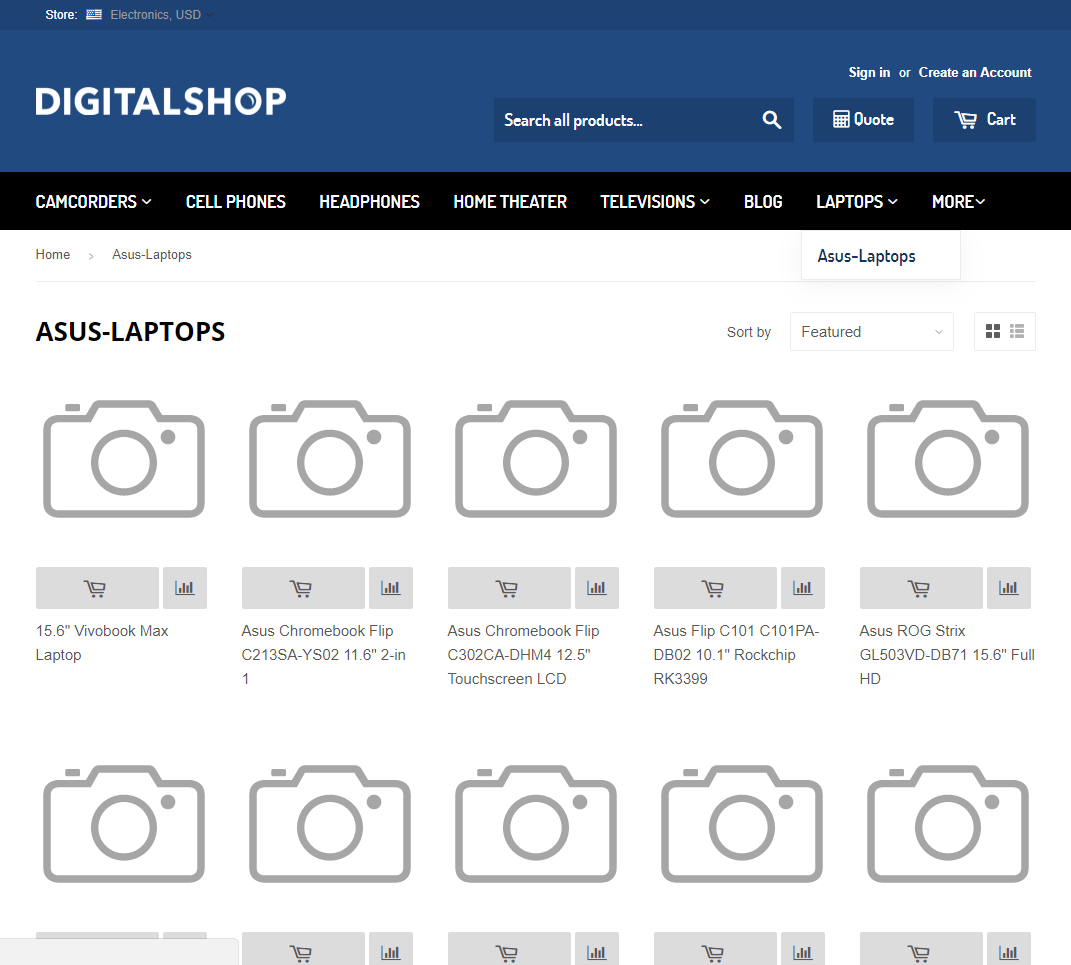
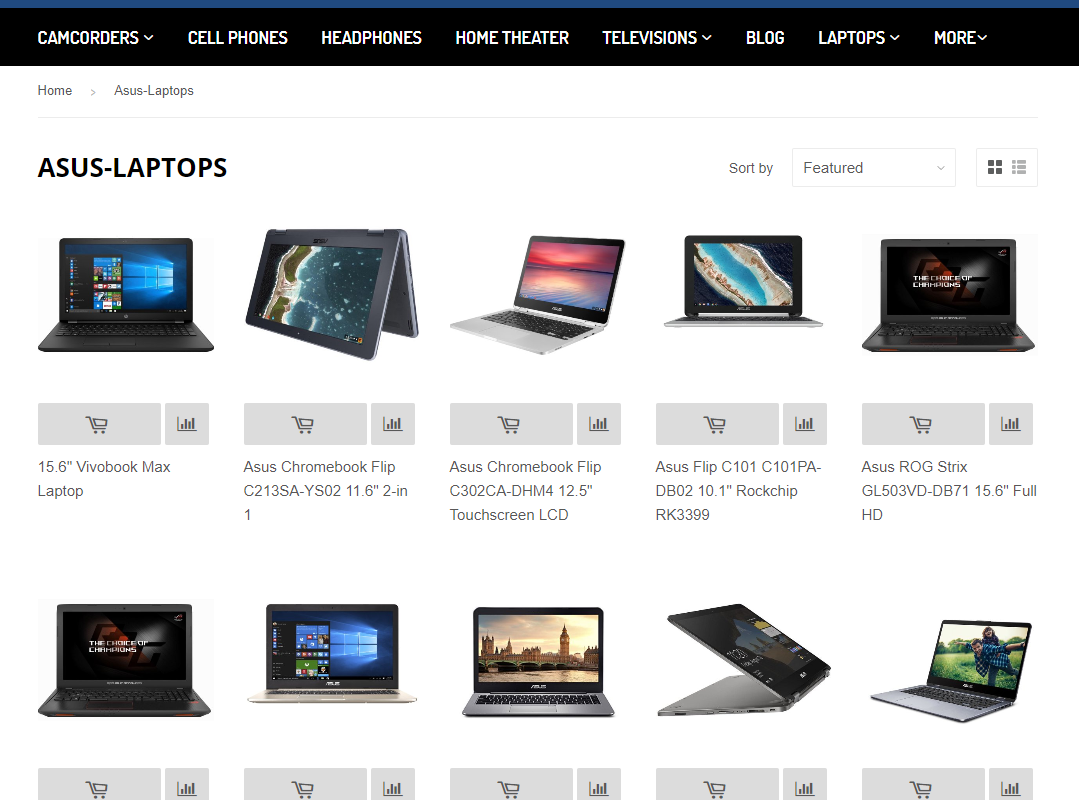
Added images of new products, zip of this images, instruction & screens for upload images and creating thumbnails

diff --git a/pages/docs/lessons/lesson2.md b/pages/docs/lessons/lesson2.md
@@ -11,13 +11,14 @@ Use this guide to import new products into Virto Commerce Platform(backend) cata
 
 ## Prerequisites
 
-* Download the <a href="https://github.com/VirtoCommerce/vc-content/tree/lesson2/Pages/docs/lessons/electronics-new-products-example.csv" target="_blank">electronics-new-products-example.csv</a> file with new products.
+* Download the <a href="https://github.com/VirtoCommerce/vc-content/tree/lesson2/pages/docs/lessons/electronics-new-products-example.csv" target="_blank">electronics-new-products-example.csv</a> file with new products.
+* Download the <a href="https://github.com/VirtoCommerce/vc-content/tree/lesson2/pages/docs/lessons/images-example.zip" **images-example.zip** file with 15 images of new products.
 * Word Excel or <a href="https://www.libreoffice.org/" target="_blank">LibreOffice(*free*)</a>.
 
 ## Create catalog data file in .csv format
 
 * To create file with products like downloaded **electronics-new-products-example.csv** you need to create new file in any of Word Excel or LibreOffice programm.
-* In Excel just select the product properties you need from the list and fill in the product properties columns as in our document.
+* In Excel just select the product properties you need from the list and fill in the product properties columns as in our document. Set to the PrimaryImage column pathes to your images in **Assets**.
 * In LibreOffice you need to create table with the number of columns equal to the number of properties of your products and fill it. For a delimiter, select a comma.
 * Save file in .csv format.
 
@@ -29,21 +30,35 @@ Use this guide to import new products into Virto Commerce Platform(backend) cata
 * There are 2 scenarios for adding new products: adding to a new catalog or to an existing one.
 
 ### Create new category and subcategory
+
 * To create new category in **Electronics Theme** click on **More > Catalog > Electronics** > click on **+Add** > choose the **Category** > add category name **Laptops** and code(optional), push on button **Create**.
 
 ![Create new category](../../assets/images/docs/new-category.png "Create new category")
 
 ![New category details](../../assets/images/docs/new-category-details.png "New category details")
 
-* Click on the **Laptops** in categories list. To create new subcategory, click on **+Add** > choose the **Category** > add category name **Asus-Laptops** and code(optional), push on button **Create**.
-* By click on **More > Catalog > Electronics > Laptops > Asus-Laptops** you will see all created categories.
+* Click on the **Laptops** in categories list. To create new subcategory, click on **+ Add** > choose the **Category** > add category name **Asus-Laptops** and code(optional), push on button **Create**.
+* By click on **More > Catalog > Electronics > Laptops > Asus-Laptops** you will see all created categories. If you want to get Asus-Laptops CategoryId for using it in .csv file - click on categories page menu, select **Id** by check box and copy Asus-Laptops Id value.
 
 ### Use an existing catalog and categories
+
 * Click on **More > Catalog**. Select the catalog and category names in which you want to add new products.
+
+## Upload images for new products
+
+* You need to add images for products: go to **More > Assets > catalog >** click on the **New folder** icon, type **ASUS** name, click button **Ok**.
+
+![New folder for images](../../assets/images/docs/assets-new-folder.png "New folder for images")
+
+![Upload new images](../../assets/images/docs/assets-upload-image.png "Upload new images")
+
+* Click on the **Upload** icon and select in File Explorer all downloaded example images from **images-example.zip**. Now you could see all images in the new **ASUS** catalog.
+
+![New images list](../../assets/images/docs/assets-new-products.png "New images list")
 
 ## Import and mapping your catalog data to Virto Commerce Platform(*backend*)
 
-* At the top of the **Asus-Laptops** category page click the **Import** icon > **VirtoCommerce CSV import** > select **Comma** in **Csv column delimiter** > click on image to upload **electronics-new-products-example.csv** file. Wait a minute...
+* At the top of the **Asus-Laptops** category page click on the **Import** icon > **VirtoCommerce CSV import** > select **Semicolon** in **Csv column delimiter** > click on image to upload **electronics-new-products-example.csv** file. Wait a minute... **Note** that importing new products from the file without specifying either the id category or the category path in it, defaults to the root directory - to the catalog.
 
 ![Сsv import](../../assets/images/docs/csv-import.png "Сsv import")
 
@@ -71,9 +86,24 @@ Use this guide to import new products into Virto Commerce Platform(backend) cata
 
 ![New subcategory link](../../assets/images/docs/new-subcategory-link.png "New subcategory link")
 
+## Creating thumbnails for new product images
+
+* You need to create thumbnails for new images. For this need to **only once** creating new task for thumbnails generation: go to **More > Thumbnails >** click on **+ Add** icon, enter Name - **catalog images**, Path to images - **/catalog**, click on penсil icon near **Thumbnail setting** and on **+ Add** icon.
+
+![New thumbnail task](../../assets/images/docs/new-thumbnail-task.png "New thumbnail task")
+
+* Create and save thumbnail option details: Name - **348x348**, Thumbnail file name suffix - **348x348**, Resize method - **FixedSize**, Width - **348**, Height - **348**, Anchor Position - **Center**. Similarly for 3 other resolutions: **216x216, 168x168, 64x64**. 
+* Put the cursor in the **Thumbnail settings** field, add all settings, save new thumbnails generation task.
+
+![New thumbnail options](../../assets/images/docs/new-subcategory-link.png "New thumbnail options")
+
+* Select **catalog images** task in task list by check box, click on **! Run** icon, push button **Regenerate** in pop-up window. Wait a minute... All done.
+
+![New thumbnails was generated](../../assets/images/docs/new-thumbnails-generated.png "New thumbnails was generated")
+
 ## Build search indexes and reset cache
 
-* You need to build search indexes for new categories and products - open Virto Commerce Platform(*backend*), go to **More > Search index >** select all document types via check boxes **>** click on icon **Build index**, in pop-up window push on button **Build**.
+* By default indexes building by system throughout 5 minutes. If you want to build search indexes for new categories and products immediately, open Virto Commerce Platform(*backend*), go to **More > Search index >** select all document types via check boxes **>** click on icon **Build index**, in pop-up window push on button **Build**.
 
 ![Build search indexes](../../assets/images/docs/build-search-indexes.png "Build search indexes")
 
@@ -95,30 +125,30 @@ Use this guide to import new products into Virto Commerce Platform(backend) cata
 | Property Name                                  | Data Type       | Example                                                                   |
 |------------------------------------------------|-----------------|---------------------------------------------------------------------------|
 | Name (required)                                | text            | Asus VivoBook W202NA-DH02 Rugged 11.6-inch Windows 10 Home Laptop         |
-| Id                                             | text            | 689dad074edd495897dd34d1846c4bfe                                          |
-| Sku                                            | text            | 123123hgf                                                                 |
+| Id                                             | text            |                                                                           |
+| Sku                                            | text            |                                                                           |
 | CategoryPath (required if CategoryId is empty) | text            | Laptops/Asus-Laptops                                                      |
-| CategoryId (required if CategoryPath is empty) | text            | 53e239451c844442a3b2fe9aa82d95c8                                          |
-| MainProductId                                  | text            | a82d95c853e239451c238442a3b2fe9a                                          |
+| CategoryId (required if CategoryPath is empty) | text            |                                                                           |
+| MainProductId                                  | text            |                                                                           |
 | PrimaryImage (image url in app)                | text            | http://localhost/admin/assets/catalog/PAHCVX870/1420483149000_1109406.jpg |
-| AltImage                                       | text            | panasonic-hc-vx870k-4k-ultra-hd-camcorder                                 |
-| SeoUrl                                         | text            | panasonic-hc-vx870k-4k-ultra-hd-camcorder                                 |
+| AltImage                                       | text            | asus-vivobook-w202na-dh02                                                 |
+| SeoUrl                                         | text            | asus-vivobook-w202na-dh02                                                 |
 | SeoTitle                                       | text            |                                                                           |
 | SeoDescription                                 | text            |                                                                           |
 | SeoLanguage                                    | text            | en-US                                                                     |
-| SeoStore (Id of Store)                         | text            | 844442a3b2fe9aa82d95c853e239451c                                          |
+| SeoStore (Id of Store)                         | text            |                                                                           |
 | Review                                         | number (0 or 1) | 1                                                                         |
-| ReviewType (Id of Review Type)                 | text            | 8a82d95c44442a3b2fe9a853e239451c                                          |
+| ReviewType                                     | text            | FullReview(or QuickReview)                                                |
 | IsActive                                       | number (0 or 1) | 1                                                                         |
 | IsBuyable                                      | number (0 or 1) | 1                                                                         |
 | TrackInventory                                 | number (0 or 1) | 1                                                                         |
-| PriceId                                        | text            | d95c448a82442a3b2fe9a853e239451c                                          |
+| PriceId                                        | text            |                                                                           |
 | SalePrice                                      | number          | 199.5                                                                     |
 | ListPrice (required)                           | number          | 199.5                                                                     |
 | Currency                                       | text            | USD                                                                       |
-| PriceListId                                    | text            | 8a82442a3b2fed95c449a853e239451c                                          |
+| PriceListId                                    | text            |                                                                           |
 | Quantity (required, 0 and more)                | number          | 25                                                                        |
-| ManufacturerPartNumber                         | text            | 8a82442a3b2fed95c449a853e239451c                                          |
+| ManufacturerPartNumber                         | text            | ASDJHG34GH-23                                                             |
 | Gtin                                           | text            |                                                                           |
 | MeasureUnit                                    | text            | mm                                                                        |
 | WeightUnit                                     | text            | gram                                                                      |
@@ -126,11 +156,11 @@ Use this guide to import new products into Virto Commerce Platform(backend) cata
 | Height                                         | number          | 125                                                                       |
 | Length                                         | number          | 125                                                                       |
 | Width                                          | number          | 125                                                                       |
-| TaxType                                        | text            | 582fed9c449a853e239a82442a3b451c                                          |
-| ProductType                                    | text            | 89a853e239a8242fed95c4442a3b451c                                          |
-| ShippingType                                   | text            | 95c449a853e239a82442a3b4582fed1c                                          |
+| TaxType                                        | text            |                                                                           |
+| ProductType                                    | text            | Physical(or Digital)                                                      |
+| ShippingType                                   | text            |                                                                           |
 | Vendor                                         | text            | Asus                                                                      |
-| DownloadType (Id of Download Type)             | text            | 95c449a853e239a82442a3b4582fed1c                                          |
+| DownloadType                                   | text            | Standard Product(or Software, or Music)                                   |
 | DownloadExpiration                             | date            | 2018-04-05 21:47                                                          |
 | HasUserAgreement                               | number (0 or 1) | 1                                                                         |
 
